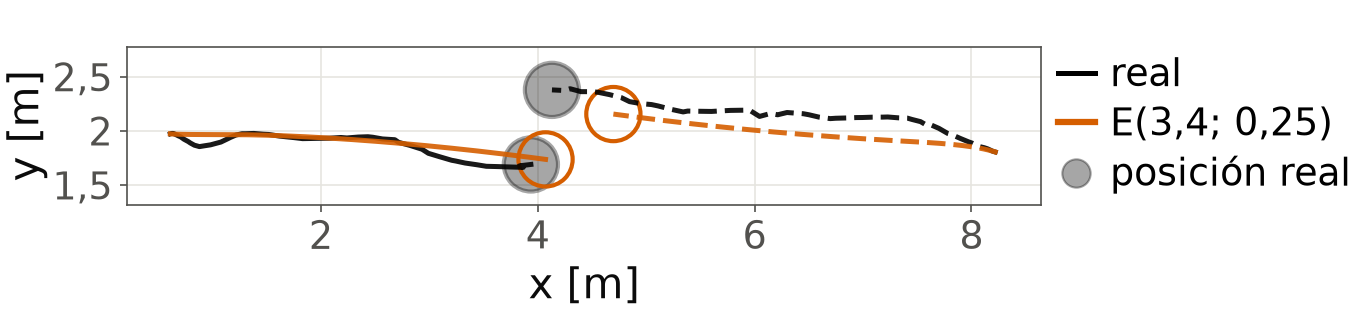
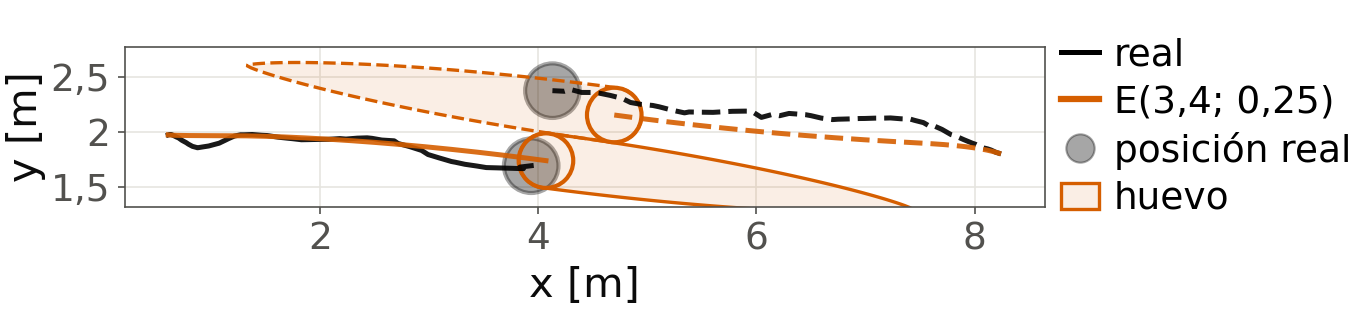
feat: eggs in capa E animations

diff --git a/TP5/scripts/animation/presentation_videos.py b/TP5/scripts/animation/presentation_videos.py
@@ -8,9 +8,10 @@ Uso (desde TP5/): py scripts/animation/presentation_videos.py
   2. anim-recorte: evento 9, trayectoria
      completa y tramo recortado, con la flecha hacia el objetivo y su ángulo con x en cada inicio.
   3. anim-A-B: evento 16, real vs A y B seleccionadas.
-  4. anim-E: evento 16, real vs E seleccionada.
+  4. anim-E: evento 16, real vs E seleccionada, con el huevo de cada peatón simulado.
 Los pares se leen de la calibración poblacional, usando el mismo criterio de selección de las filas amarillas.
-Sin claves, regenera solo las cuatro animaciones vigentes. La clave opcional lado conserva el evento 12.
+Sin claves, regenera solo las cuatro animaciones vigentes. La clave opcional lado conserva el evento 12 y e2 hace la
+del evento 16 con el huevo EGG_ALT (punta más corta y más ancho que el seleccionado).
 Además copia los MP4 que usa la presentación a presentacion/animaciones/ con nombres por diapositiva.
 Mismo estilo que R7: real en negro con círculo gris relleno, simulados con círculo de color hueco, reloj, coma
 decimal, sin título. Un cuadro de video por cuadro experimental (Δt_exp), a 15 cuadros/s: tiempo real. Sin
@@ -37,7 +38,10 @@ from matplotlib.lines import Line2D  # noqa: E402
 from matplotlib.ticker import FuncFormatter  # noqa: E402
 
 sys.path.insert(0, str(Path(__file__).resolve().parents[1] / "graph_gen"))
+sys.path.insert(0, str(Path(__file__).resolve().parent))
+from egg_geometry import MIN_SPEED, boundary, placed  # noqa: E402
 from figure_data import R, experimental, read_run  # noqa: E402
+from matplotlib.patches import Patch, Polygon  # noqa: E402
 
 DATA = Path("data")
 OUT = Path("outputs/pilot/animaciones_presentacion")
@@ -45,6 +49,12 @@ DEST = Path("presentacion/figuras")
 RUN_A = OUT / "datos/A"
 RUN_B = OUT / "datos/B"
 RUN_E = OUT / "datos/E"
+RUN_E2 = OUT / "datos/E_corto"
+# Huevo alternativo (a, b) para la animación e2: punta más corta y más ancho que el par seleccionado, para comparar.
+# En el evento 16 el lado de cruce depende solo de a: con a ≤ 2,5 cruzan del lado contrario al real (para todo
+# b de la grilla) y con a ≥ 2,75 del real. 2,75 es la punta más corta que cruza bien; b = 0,35 da d_min = 0,70 m
+# (real 0,68 m)
+EGG_ALT = (2.75, 0.35)
 BASELINE = OUT / "datos/none"
 ANIM = Path("presentacion/animaciones")
 EVENT = 16
@@ -57,6 +67,7 @@ COPIES = {
     "anim-A-B.mp4": "03_A_y_B_evento16.mp4",
     "anim-lado-evento12.mp4": "04_lado_contrario_evento12.mp4",
     "anim-E.mp4": "05_E_evento16.mp4",
+    "anim-E-corto.mp4": "06_E_huevo_corto_evento16.mp4",
 }
 INK, MUTED, GRID = "#0b0b0b", "#52514e", "#e6e5e0"
 MINUS = "−"
@@ -70,6 +81,7 @@ plt.rcParams.update({"font.size": 22, "axes.labelsize": 24, "legend.fontsize": 2
 
 # Rótulo de cada corrida en la leyenda (con el par: la diapositiva no lo repite)
 LABELS = {"sin capa": "sin capa"}
+PAIRS = {}       # (p1, p2) seleccionado de cada capa; el de E son (a, b) del huevo que se dibuja
 FRAME_SIZE = (6.6, 3.4)     # pulgadas: a ~5,7 cm de ancho en la diapositiva, 20–24 pt quedan en ~7–9 pt
 FRAME_SIZE_COMPACT = (9.1, 2.08)     # lámina 13: rango de y ajustado y leyenda a la derecha; el lienzo del MP4 sigue al PNG
 
@@ -98,6 +110,7 @@ def prepare(only):
         selected = int(np.argmin((means/means.min(axis=0)-1).max(axis=1)))
         pair = choices[selected]["p1"], choices[selected]["p2"]
         LABELS[layer] = f"{layer}({pair[0]:g}; {pair[1]:g})".replace(".", ",")
+        PAIRS[layer] = pair
         if layer not in wanted: continue
         events = {EVENT} if only & {"sincapa", "ab", "e"} else set()
         if layer == "A" and "lado" in only: events.add(12)
@@ -117,6 +130,11 @@ def prepare(only):
             if expected is None: raise ValueError(f"Par ausente de las grillas: {layer}/{pair}")
             np.testing.assert_allclose([float(measured[2]), float(measured[4])], expected, atol=1e-6, rtol=0)
             print(f"Corrida nueva: evento {event}, {LABELS[layer]}; ECM verificados", flush=True)
+    if "e2" in only:
+        a, b = EGG_ALT
+        metadata["layers"]["E_corto"] = dict(p1=a, p2=b, criterion="fijo (EGG_ALT)", events=[EVENT])
+        subprocess.run(base+["run", "--event", str(EVENT), "--layer", "E", "--p1", str(a), "--p2", str(b),
+                            "--out", str(RUN_E2)]+common, check=True, stdout=subprocess.DEVNULL)
     if "sincapa" in only:
         subprocess.run(base+["run", "--event", str(EVENT), "--out", str(BASELINE)]+common,
                        check=True, stdout=subprocess.DEVNULL)
@@ -152,8 +170,10 @@ def real_minimum(exp):
 class Overlay:
     """Real (negro, círculo gris relleno) y una o más corridas simuladas (color, círculo hueco)."""
 
-    def __init__(self, exp, runs, figsize=FRAME_SIZE, compact=False):
-        """compact (lámina 13, dos animaciones apiladas): rango de y ajustado a las trayectorias, leyenda a la derecha del eje
+    def __init__(self, exp, runs, figsize=FRAME_SIZE, compact=False, eggs=None):
+        """eggs: {corrida: (a, b)}; dibuja el huevo de la capa E de cada peatón simulado de esa corrida, con la punta
+        hacia su velocidad (mismo borde y mismo rumbo que EggLayer.java, vía egg_geometry.py).
+        compact (lámina 13, dos animaciones apiladas): rango de y ajustado a las trayectorias, leyenda a la derecha del eje
         (fuera del área del gráfico, como en el recorte) y reloj arriba a la derecha, también afuera. Así la figura queda
         más apaisada y las trayectorias se ven más grandes con la misma altura en la diapositiva."""
         self.exp, self.runs, self.compact = exp, runs, compact
@@ -167,6 +187,14 @@ class Overlay:
             ax.set_ylim(np.nanmin(ys) - 0.5, np.nanmax(ys) + 2.1)     # franja libre arriba para la leyenda
         style(ax)
         self.lines, self.dots = {}, {}
+        self.eggs = {}
+        for name, (a, b) in (eggs or {}).items():
+            color = COLORS[name]
+            for i in (0, 1):
+                poly = Polygon(np.full((3, 2), np.nan), closed=True, facecolor=(*matplotlib.colors.to_rgb(color), 0.10),
+                               edgecolor=color, lw=1.6, ls="-" if i == 0 else "--", zorder=1.5)
+                ax.add_patch(poly)
+                self.eggs[(name, i)] = (poly, boundary(a, b))
         for name in ["real"] + list(runs):
             color = COLORS[name]
             for i in (0, 1):
@@ -178,6 +206,8 @@ class Overlay:
         handles = [Line2D([], [], color=COLORS["real"], lw=2.4, label="real")]
         handles += [Line2D([], [], color=COLORS[n], lw=3, label=LABELS[n]) for n in runs]
         handles += [Line2D([], [], ls="none", marker="o", ms=17, color=COLORS["real"], alpha=0.35, label="posición real")]
+        handles += [Patch(facecolor=(*matplotlib.colors.to_rgb(COLORS[n]), 0.10), edgecolor=COLORS[n], lw=1.6,
+                          label="huevo") for n in (eggs or {})]
         if compact:
             # A la derecha del eje, fuera del área del gráfico, una entrada por fila. Letra y muestras chicas (18 pt: ≈ 8,5 pt
             # en la lámina) para que la leyenda ocupe poco ancho: con escala 1:1, el alto del eje y sale del ancho que le
@@ -207,6 +237,16 @@ class Overlay:
                 self.lines[(name, i)].set_data(x, y)
                 ok = ~np.isnan(x)
                 self.dots[(name, i)].center = (x[ok][-1], y[ok][-1]) if ok.any() else (np.nan, np.nan)
+                if (name, i) in self.eggs:
+                    poly, shape = self.eggs[(name, i)]
+                    if ok.any():
+                        last = run[k][ok][-1]
+                        vx, vy = last[3 + 4 * i], last[4 + 4 * i]
+                        # Rumbo como en EggLayer: la velocidad; si es casi nula, hacia el objetivo (+x el 1, −x el 2)
+                        h = math.atan2(vy, vx) if math.hypot(vx, vy) > MIN_SPEED else (0.0 if i == 0 else math.pi)
+                        poly.set_xy(placed(shape, x[ok][-1], y[ok][-1], h))
+                    else:
+                        poly.set_xy(np.full((3, 2), np.nan))
         if self.compact:
             # En el cuadro del PDF el reloj es transparente pero ocupa su lugar: el PNG y el MP4 quedan con el mismo
             # encuadre y el PPTX pone el video exacto sobre el cuadro
@@ -217,8 +257,8 @@ class Overlay:
         return []
 
 
-def overlay_video(name, exp, runs, dt_exp, t_end, t_frame, compact=False):
-    ov = Overlay(exp, runs, figsize=FRAME_SIZE_COMPACT if compact else FRAME_SIZE, compact=compact)
+def overlay_video(name, exp, runs, dt_exp, t_end, t_frame, compact=False, eggs=None):
+    ov = Overlay(exp, runs, figsize=FRAME_SIZE_COMPACT if compact else FRAME_SIZE, compact=compact, eggs=eggs)
     ov.update(t_frame, with_clock=False)
     if compact:
         # Lienzo completo, igual que el MP4: misma proporción, así el PPTX pone el video exacto sobre el cuadro
@@ -269,7 +309,21 @@ def capa_e(event=EVENT):
     dt_exp = float(header["dt_exp"])
     t_frame = real_minimum(exp)
     t_end = min(e[-1, 0] for e in exp)
-    out = overlay_video("anim-E", exp, {"E": run_e}, dt_exp, t_end, t_frame, compact=True)
+    out = overlay_video("anim-E", exp, {"E": run_e}, dt_exp, t_end, t_frame, compact=True, eggs={"E": PAIRS["E"]})
+    return out, t_frame, t_end
+
+
+def capa_e_corto(event=EVENT):
+    """Como capa_e, con el huevo EGG_ALT (punta más corta, más ancho). Misma corrida de colores y fotograma."""
+    header, run_e = read_run(RUN_E2 / f"evento_{event:02d}.txt")
+    exp = experimental(DATA, header)
+    dt_exp = float(header["dt_exp"])
+    t_frame = real_minimum(exp)
+    t_end = min(e[-1, 0] for e in exp)
+    LABELS["E corto"] = f"E({EGG_ALT[0]:g}; {EGG_ALT[1]:g})".replace(".", ",")
+    COLORS["E corto"] = COLORS["E"]
+    out = overlay_video("anim-E-corto", exp, {"E corto": run_e}, dt_exp, t_end, t_frame, compact=True,
+                        eggs={"E corto": EGG_ALT})
     return out, t_frame, t_end
 
 
@@ -407,7 +461,7 @@ def main():
     DEST.mkdir(parents=True, exist_ok=True)
     ANIM.mkdir(parents=True, exist_ok=True)
     only = set(sys.argv[1:]) or {"recorte", "sincapa", "ab", "e"}
-    unknown = only - {"recorte", "sincapa", "ab", "lado", "e"}
+    unknown = only - {"recorte", "sincapa", "ab", "lado", "e", "e2"}
     if unknown: raise SystemExit(f"Claves desconocidas: {sorted(unknown)}")
     prepare(only)
     if "sincapa" in only:
@@ -422,11 +476,15 @@ def main():
     if "e" in only:
         out, tf, te = capa_e()
         print(f"{out}: fotograma en t = {tf:.2f} s (mínimo real), duración {te:.2f} s")
+    if "e2" in only:
+        out, tf, te = capa_e_corto()
+        print(f"{out}: fotograma en t = {tf:.2f} s (mínimo real), duración {te:.2f} s")
     if "lado" in only:
         out, tf, te = lado_evento12()
         print(f"{out}: fotograma en t = {tf:.2f} s (mínimo real), duración {te:.2f} s")
     selected_files = {"recorte": "anim-recorte.mp4", "sincapa": "anim-sin-capa-vs-A.mp4",
-                      "ab": "anim-A-B.mp4", "lado": "anim-lado-evento12.mp4", "e": "anim-E.mp4"}
+                      "ab": "anim-A-B.mp4", "lado": "anim-lado-evento12.mp4", "e": "anim-E.mp4",
+                      "e2": "anim-E-corto.mp4"}
     for src, dst in COPIES.items():
         if src in {selected_files[key] for key in only if key in selected_files} and (OUT / src).exists():
             shutil.copy(OUT / src, ANIM / dst)
